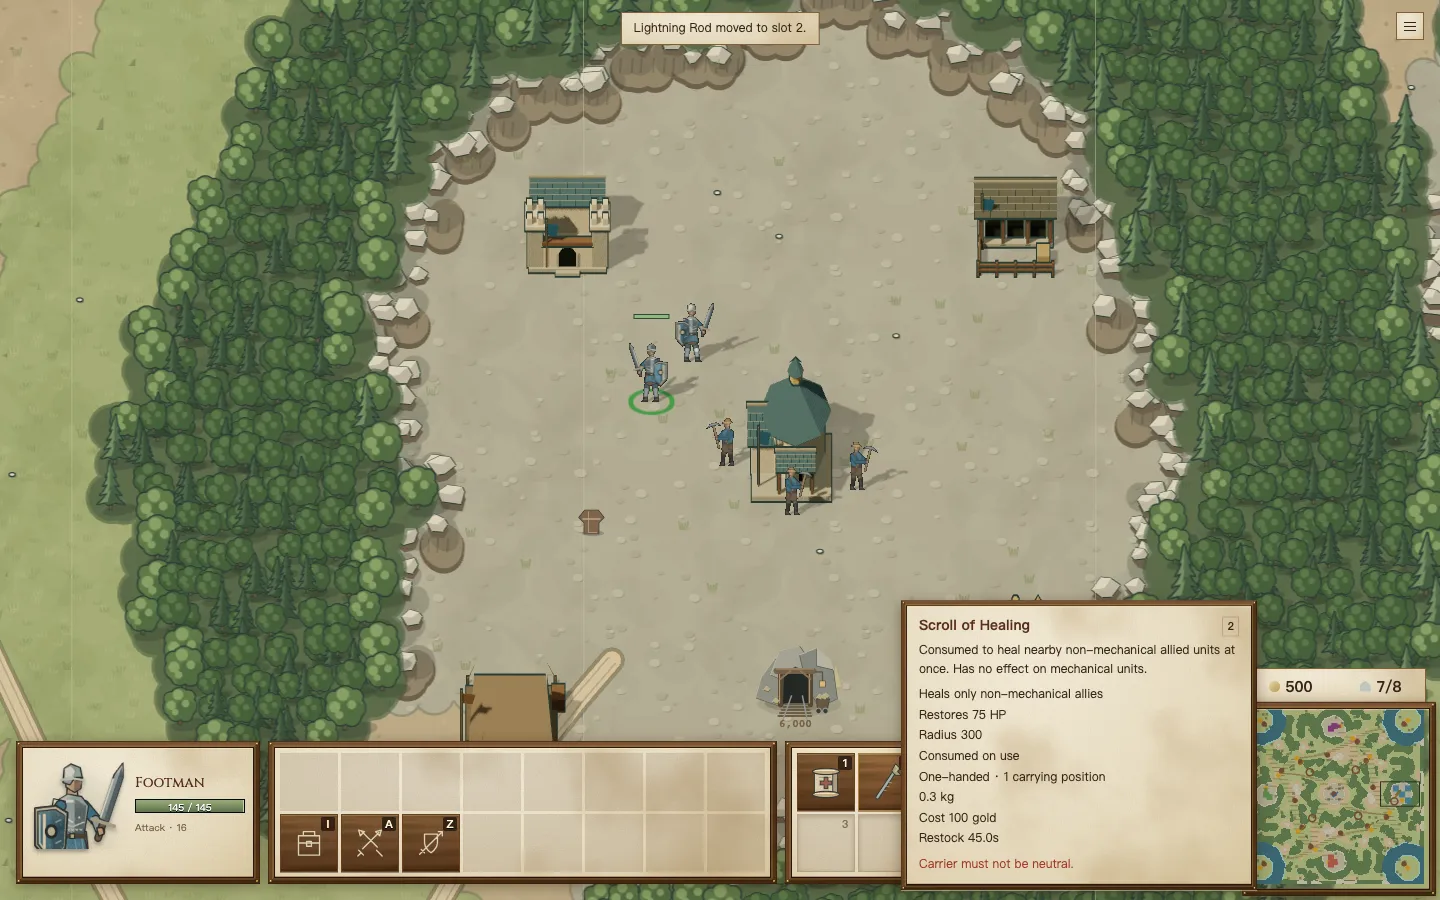
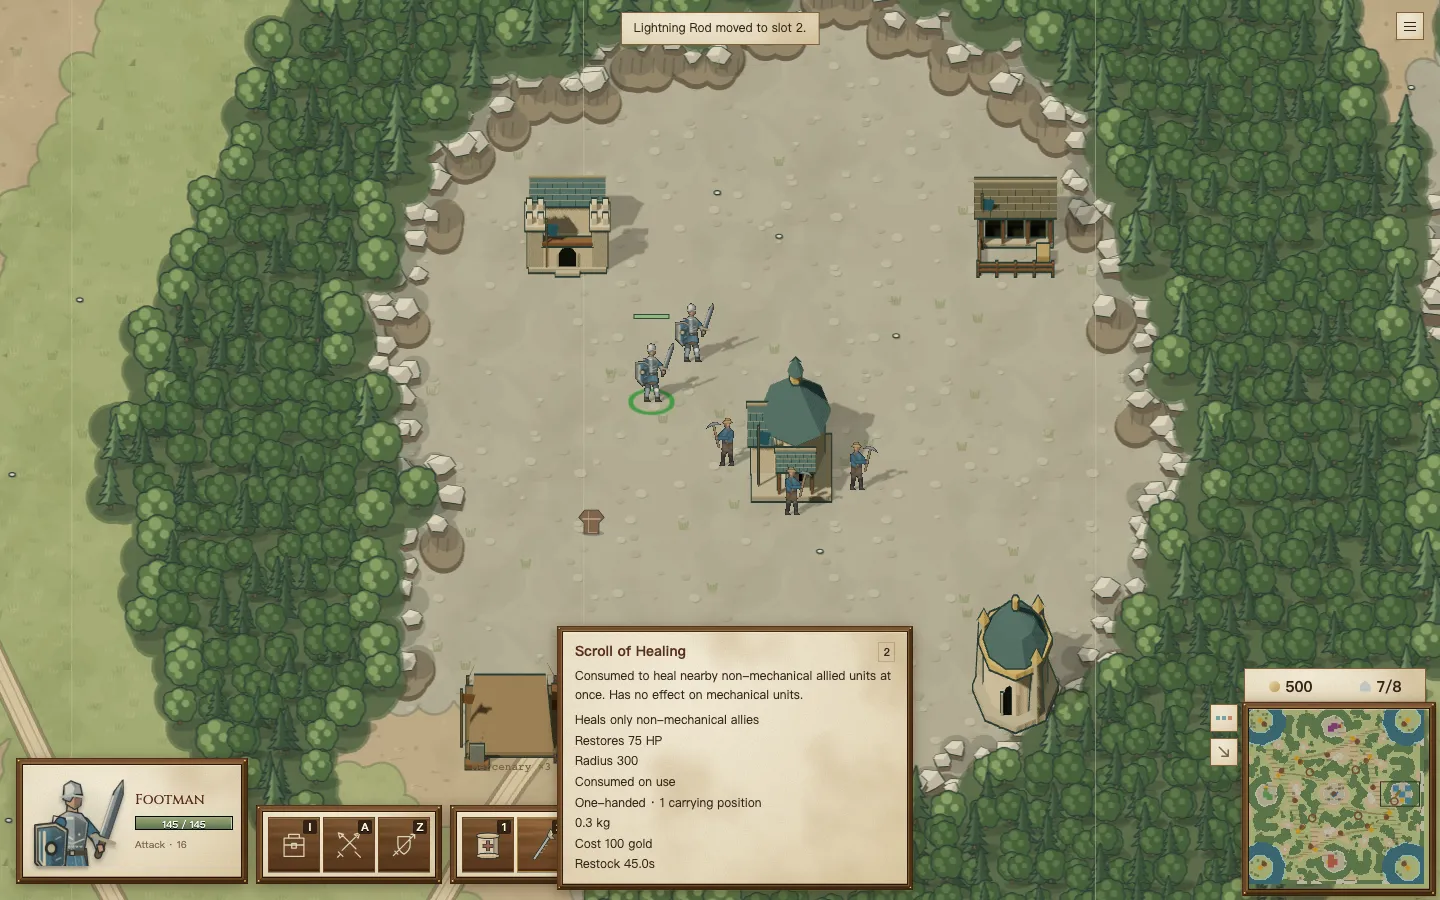
fix(client): an item's tooltip shows its standing rules as notes, not unmet requirements
Every item tooltip carried its standing rules in requirements, which the
HUD draws red as what is not met: a footman's own healing scroll read
'Carrier must not be neutral.' (a rule about creeps carrying items that
no player's carrier can break), a rod 'Needs a visible enemy unit in
range.' even with one in range, boots 'Passive item. No manual use.'.

The item texts now hold what an item is and how it is used; their rule
lines are notes, the neutral-carrier line is gone, and itemTooltip's
requirements start empty for what is unmet right now. The four item-move
screenshots of #429 are retaken on the current HUD (one row of item
slots, the compact command card), with the carried scroll's tooltip.

Verified: tooltips.test.ts 'never shows an item's standing rules as
unmet requirements' (every item, en and zh) fails with main's tooltips.ts
and passes; tsc --noEmit; tooltips, guardian-scroll and i18n-coverage
tests pass; screenshots from the running game at 1440x900.

Changed region(s): [[0.0, 0.6533, 0.875, 0.9956], [0.4375, 0.3733, 0.4688, 0.4356]]

diff --git a/src/client/tooltips.ts b/src/client/tooltips.ts
@@ -183,7 +183,7 @@ function fillAbilityNumbers(line: string, ability: AbilityKind) {
 
 export function itemTooltip(kind: ItemKind, hotkey?: string, i18n: I18n = DEFAULT_I18N): GameplayTooltip {
   const tooltip = ITEM_TOOLTIPS[i18n.locale][kind];
-  return { ...tooltip, stats: itemStats(kind, i18n.locale), hotkey: formatHotkey(hotkey) };
+  return { ...tooltip, stats: itemStats(kind, i18n.locale), requirements: [], hotkey: formatHotkey(hotkey) };
 }
 
 export function upgradeTooltip(kind: UpgradeKind, hotkey?: string, currentLevel = 0, i18n: I18n = DEFAULT_I18N): GameplayTooltip {
@@ -458,143 +458,138 @@ const ABILITY_REQUIREMENTS: Record<Locale, Record<AbilityKind, string[]>> = {
   },
 };
 
-const ITEM_TOOLTIPS: Record<Locale, Record<ItemKind, GameplayTooltip>> = {
+// What an item is and how it is used; what is unmet right now (a requirement) is not written here.
+const ITEM_TOOLTIPS: Record<Locale, Record<ItemKind, Omit<GameplayTooltip, "requirements">>> = {
   en: {
-    shipCannon:{title:"Deck Cannon",body:"A tradable naval weapon. Hauling it takes all four carrying positions; installed guns fire automatically.",stats:[],requirements:["Needs a compatible ship fitting."]},
-    shipMortar:{title:"Ship Mortar",body:"A heavy naval siege weapon. Its blast and minimum range are retained when transferred to a compatible ship.",stats:[],requirements:["Needs a compatible ship fitting."]},
-    flameProjector:{title:"Flame Projector",body:"A short-range naval weapon. Carries over its condition and cooldown when moved.",stats:[],requirements:["Needs a compatible ship fitting."]},
-    issuedWeapon:{title:"Service Weapon",body:"The unit's trained weapon. Stow or exchange it using the four shared carrying positions.",stats:[],requirements:[]},
-    leatherArmor:{title:"Leather Armor",body:"Reduces incoming physical damage while worn on the body. Does not reduce magic damage.",stats:[],requirements:[]},
-    roundShield:{title:"Round Shield",body:"Reduces incoming physical damage while held. Does not reduce magic damage; cannot be held alongside a two-handed weapon.",stats:[],requirements:[]},
-    greatSword:{title:"Greatsword",body:"A melee weapon occupying both hands. Your other weapons stay in their carrying positions.",stats:[],requirements:[]},
+    shipCannon:{title:"Deck Cannon",body:"A tradable naval weapon. Hauling it takes all four carrying positions; installed guns fire automatically.",stats:[],notes:["Needs a compatible ship fitting."]},
+    shipMortar:{title:"Ship Mortar",body:"A heavy naval siege weapon. Its blast and minimum range are retained when transferred to a compatible ship.",stats:[],notes:["Needs a compatible ship fitting."]},
+    flameProjector:{title:"Flame Projector",body:"A short-range naval weapon. Carries over its condition and cooldown when moved.",stats:[],notes:["Needs a compatible ship fitting."]},
+    issuedWeapon:{title:"Service Weapon",body:"The unit's trained weapon. Stow or exchange it using the four shared carrying positions.",stats:[]},
+    leatherArmor:{title:"Leather Armor",body:"Reduces incoming physical damage while worn on the body. Does not reduce magic damage.",stats:[]},
+    roundShield:{title:"Round Shield",body:"Reduces incoming physical damage while held. Does not reduce magic damage; cannot be held alongside a two-handed weapon.",stats:[]},
+    greatSword:{title:"Greatsword",body:"A melee weapon occupying both hands. Your other weapons stay in their carrying positions.",stats:[]},
     lightningRod: {
       title: "Lightning Rod",
       body: "Strikes an enemy unit, then jumps to nearby enemies with reduced damage.",
       stats: [],
-      requirements: ["Needs a visible enemy unit in range."],
+      notes: ["Needs a visible enemy unit in range."],
     },
     stormStaff: {
       title: "Storm Staff",
       body: "Calls a storm at a target point, damaging enemies on impact and over time.",
       stats: [],
-      requirements: ["Target a visible enemy or nearby point."],
+      notes: ["Target a visible enemy or nearby point."],
     },
     flameCloak: {
       title: "Flame Cloak",
       body: "Passive aura that burns nearby enemies while worn.",
       stats: [],
-      requirements: ["Passive item. No manual use."],
+      notes: ["Passive item. No manual use."],
     },
     guardianScroll: {
       title: "Guardian Scroll",
       body: "Makes nearby allied units immune to incoming damage for a short time.",
       stats: [],
-      requirements: ["Carrier must not be neutral."],
     },
     experienceBook: {
       title: "Experience Book",
       body: "Consumed by the carrier to gain veteran experience immediately.",
       stats: [],
-      requirements: ["Carrier must not be neutral."],
     },
     breachCharge: {
       title: "Breach Charge",
       body: "Consumed to blast an enemy building at close range.",
       stats: [],
-      requirements: ["Needs an enemy building in range.", "Carrier must not be neutral."],
+      notes: ["Needs an enemy building in range."],
     },
     speedBoots: {
       title: "Boots of Speed",
       body: "Moves its wearer faster while worn on the feet.",
       stats: [],
-      requirements: ["Passive item. No manual use."],
+      notes: ["Passive item. No manual use."],
     },
     regenRing: {
       title: "Regeneration Circlet",
       body: "Heals a non-mechanical wearer over time while worn on the head. Has no effect on mechanical units.",
       stats: [],
-      requirements: ["Passive item. No manual use."],
+      notes: ["Passive item. No manual use."],
     },
     healingScroll: {
       title: "Scroll of Healing",
       body: "Consumed to heal nearby non-mechanical allied units at once. Has no effect on mechanical units.",
       stats: [],
-      requirements: ["Carrier must not be neutral."],
     },
     ivoryTower: {
       title: "Ivory Tower",
       body: "Consumed to raise a finished defense tower with partial health near its carrier.",
       stats: [],
-      requirements: ["Target open ground near the carrier."],
+      notes: ["Target open ground near the carrier."],
     },
   },
   zh: {
-    shipCannon:{title:"甲板火炮",body:"可以流通的船用武器；搬运占满四个携行位，安装到炮位后自动开火。",stats:[],requirements:["需要兼容炮位和附近的己方人员。"]},
-    shipMortar:{title:"舰载臼炮",body:"重型船用攻城武器；转装到兼容船只后保留爆炸效果和最小射程。",stats:[],requirements:["需要兼容炮位和附近的己方人员。"]},
-    flameProjector:{title:"喷火装置",body:"近距离船用武器；搬运和换装保留耐久与射击冷却。",stats:[],requirements:["需要兼容炮位和附近的己方人员。"]},
-    issuedWeapon:{title:"制式武器",body:"单位训练时配发的武器。可以收起或转交，同样占用四个携行位之一。",stats:[],requirements:[]},
-    leatherArmor:{title:"皮甲",body:"穿在身体位置时减少受到的物理伤害，不减免魔法伤害。",stats:[],requirements:[]},
-    roundShield:{title:"圆盾",body:"拿在手中时减少受到的物理伤害，不减免魔法伤害；不能和双手武器同时持用。",stats:[],requirements:[]},
-    greatSword:{title:"双手剑",body:"占用双手的近战武器；其它武器仍保留在各自的携行位。",stats:[],requirements:[]},
+    shipCannon:{title:"甲板火炮",body:"可以流通的船用武器；搬运占满四个携行位，安装到炮位后自动开火。",stats:[],notes:["需要兼容炮位和附近的己方人员。"]},
+    shipMortar:{title:"舰载臼炮",body:"重型船用攻城武器；转装到兼容船只后保留爆炸效果和最小射程。",stats:[],notes:["需要兼容炮位和附近的己方人员。"]},
+    flameProjector:{title:"喷火装置",body:"近距离船用武器；搬运和换装保留耐久与射击冷却。",stats:[],notes:["需要兼容炮位和附近的己方人员。"]},
+    issuedWeapon:{title:"制式武器",body:"单位训练时配发的武器。可以收起或转交，同样占用四个携行位之一。",stats:[]},
+    leatherArmor:{title:"皮甲",body:"穿在身体位置时减少受到的物理伤害，不减免魔法伤害。",stats:[]},
+    roundShield:{title:"圆盾",body:"拿在手中时减少受到的物理伤害，不减免魔法伤害；不能和双手武器同时持用。",stats:[]},
+    greatSword:{title:"双手剑",body:"占用双手的近战武器；其它武器仍保留在各自的携行位。",stats:[]},
     lightningRod: {
       title: "闪电权杖",
       body: "打击一个敌方单位，然后以较低伤害跳向附近敌人。",
       stats: [],
-      requirements: ["需要射程内可见的敌方单位。"],
+      notes: ["需要射程内可见的敌方单位。"],
     },
     stormStaff: {
       title: "风暴法杖",
       body: "在目标点召唤风暴，对敌人造成落点伤害和持续伤害。",
       stats: [],
-      requirements: ["目标必须是可见敌人或附近点位。"],
+      notes: ["目标必须是可见敌人或附近点位。"],
     },
     flameCloak: {
       title: "烈焰斗篷",
       body: "携带时产生被动光环，灼烧附近敌人。",
       stats: [],
-      requirements: ["被动物品，无法手动使用。"],
+      notes: ["被动物品，无法手动使用。"],
     },
     guardianScroll: {
       title: "守护卷轴",
       body: "短时间保护附近友方单位，免疫受到的伤害。",
       stats: [],
-      requirements: ["携带者不能是中立单位。"],
     },
     experienceBook: {
       title: "经验书",
       body: "由携带者消耗，立即获得老兵经验。",
       stats: [],
-      requirements: ["携带者不能是中立单位。"],
     },
     breachCharge: {
       title: "破城炸药",
       body: "消耗后近距离爆破一个敌方建筑。",
       stats: [],
-      requirements: ["需要射程内敌方建筑。", "携带者不能是中立单位。"],
+      notes: ["需要射程内敌方建筑。"],
     },
     speedBoots: {
       title: "速度之靴",
       body: "携带者移速提高。带两双不叠加。",
       stats: [],
-      requirements: ["被动物品，无法手动使用。"],
+      notes: ["被动物品，无法手动使用。"],
     },
     regenRing: {
       title: "回春头环",
       body: "穿在头部位置时为非机械单位持续恢复生命，对机械单位无效。收进携行位或船舱后停止生效。",
       stats: [],
-      requirements: ["被动物品，无法手动使用。"],
+      notes: ["被动物品，无法手动使用。"],
     },
     healingScroll: {
       title: "治疗卷轴",
       body: "消耗后，使用者身边的非机械友军立即回血，对机械单位无效。",
       stats: [],
-      requirements: ["携带者不能是中立单位。"],
     },
     ivoryTower: {
       title: "象牙塔",
       body: "消耗后，在携带者身边立起一座防御塔（初始生命见数值），立即可用。",
       stats: [],
-      requirements: ["目标必须是携带者附近的空地。"],
+      notes: ["目标必须是携带者附近的空地。"],
     },
   },
 };

diff --git a/src/client/tooltips.test.ts b/src/client/tooltips.test.ts
@@ -1,5 +1,6 @@
 import { describe, expect, it } from "vitest";
 import { createI18n } from "./i18n";
+import { ITEM_DEFS } from "../shared/equipment";
 import { abilityTooltip, buildingTooltip, campDetail, itemTooltip, mercenaryHireTooltip, tooltipText, unitSelectionTooltip, unitTooltip, upgradeTooltip, veteranSkillTooltip, withTooltipRequirement } from "./tooltips";
 import { ABILITY_DEFS, MERCENARY_HIRE_RANGE, resolveVariant } from "../shared/catalog";
 import { TRANSPORT_COMBAT } from "../shared/transport-role";
@@ -156,9 +157,20 @@ describe("gameplay tooltips", () => {
       title: "Lightning Rod",
       body: expect.stringContaining("enemy"),
       stats: expect.arrayContaining(["84 initial damage", "Up to 3 targets", "Range 280", "Cooldown 18.0s"]),
-      requirements: ["Needs a visible enemy unit in range."],
+      requirements: [],
+      notes: ["Needs a visible enemy unit in range."],
       hotkey: "1",
     });
+  });
+
+  // An item's tooltip tells what it is and how it is used; a requirement (drawn as unmet) never stands there on its own,
+  // and nothing about neutral carriers reaches a player: a player's carrier never is one.
+  it("never shows an item's standing rules as unmet requirements", () => {
+    for (const locale of ["en", "zh"] as const) for (const kind of Object.keys(ITEM_DEFS) as (keyof typeof ITEM_DEFS)[]) {
+      const tooltip = itemTooltip(kind, undefined, createI18n(locale));
+      expect(tooltip.requirements, `${locale} ${kind}`).toEqual([]);
+      expect(tooltipText(tooltip), `${locale} ${kind}`).not.toMatch(/neutral|中立单位/);
+    }
   });
 
   it("describes upgrades with affected units and per-level changes", () => {
@@ -229,7 +241,7 @@ describe("gameplay tooltips", () => {
       stats: expect.arrayContaining(["恢复 55 生命", "射程 240", `冷却 ${HEAL_COOLDOWN_SECONDS}s`]),
       requirements: [],
     });
-    expect(itemTooltip("lightningRod", "1", zh).requirements).toEqual(["需要射程内可见的敌方单位。"]);
+    expect(itemTooltip("lightningRod", "1", zh).notes).toEqual(["需要射程内可见的敌方单位。"]);
     expect(upgradeTooltip("buildingDurability", "d", 0, zh).requirements).toEqual(["在城镇大厅研究。", "影响建筑。"]);
     expect(upgradeTooltip("leadership", "l", 2, zh)).toMatchObject({
       stats: expect.arrayContaining(["1/2/3 星 +3/7/12 生命/秒"]),
